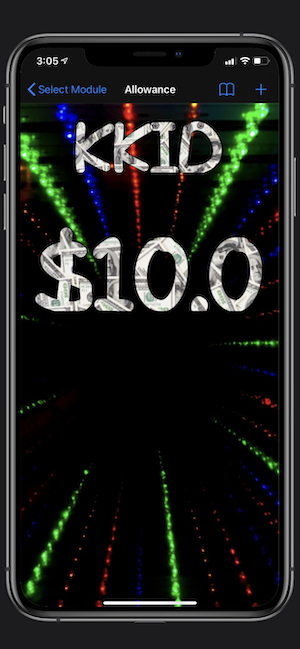
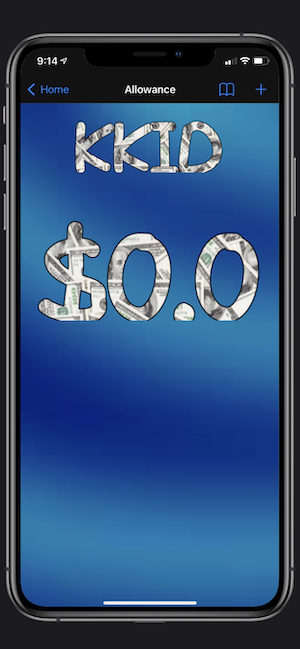
updated screenshots for v2.0

diff --git a/README.md b/README.md
@@ -3,10 +3,10 @@ KKid is an app for parents and their children to keep up with chores and allowan
 
 ##### KKid 2.0 is currently in beta and will be released as soon as I identify and correct a few bugs. I am also in the process of updating this README for KKid 2.0 leaving strike outs for changes until 2.0 is released.
 
-## Screenshots (1.0)
-| Home| Login | Allowance | Chores | Mark Chore |
+## Screenshots (2.0)
+| Home| Select User | Login | Allowance | Chores | Mark Chore |
 | ----------------- |  ----------------- | ----------------- | ----------------- | ----------------- |
-|  ![home.png](images/home.png) |  ![login.png](images/login.png) |  ![allowance.png](images/allowance.png) |  ![chores.png](images/chores.png) |  ![markchore.png](images/markchore.png) | 
+|  ![home.png](images/home.png) |  ![selectUser.png](images/selectUser.png) |  ![login.png](images/login.png) |  ![allowance.png](images/allowance.png) |  ![chores.png](images/chores.png) |  ![markchore.png](images/markchore.png) | 
 
 ## Frameworks Used
 - Foundation
